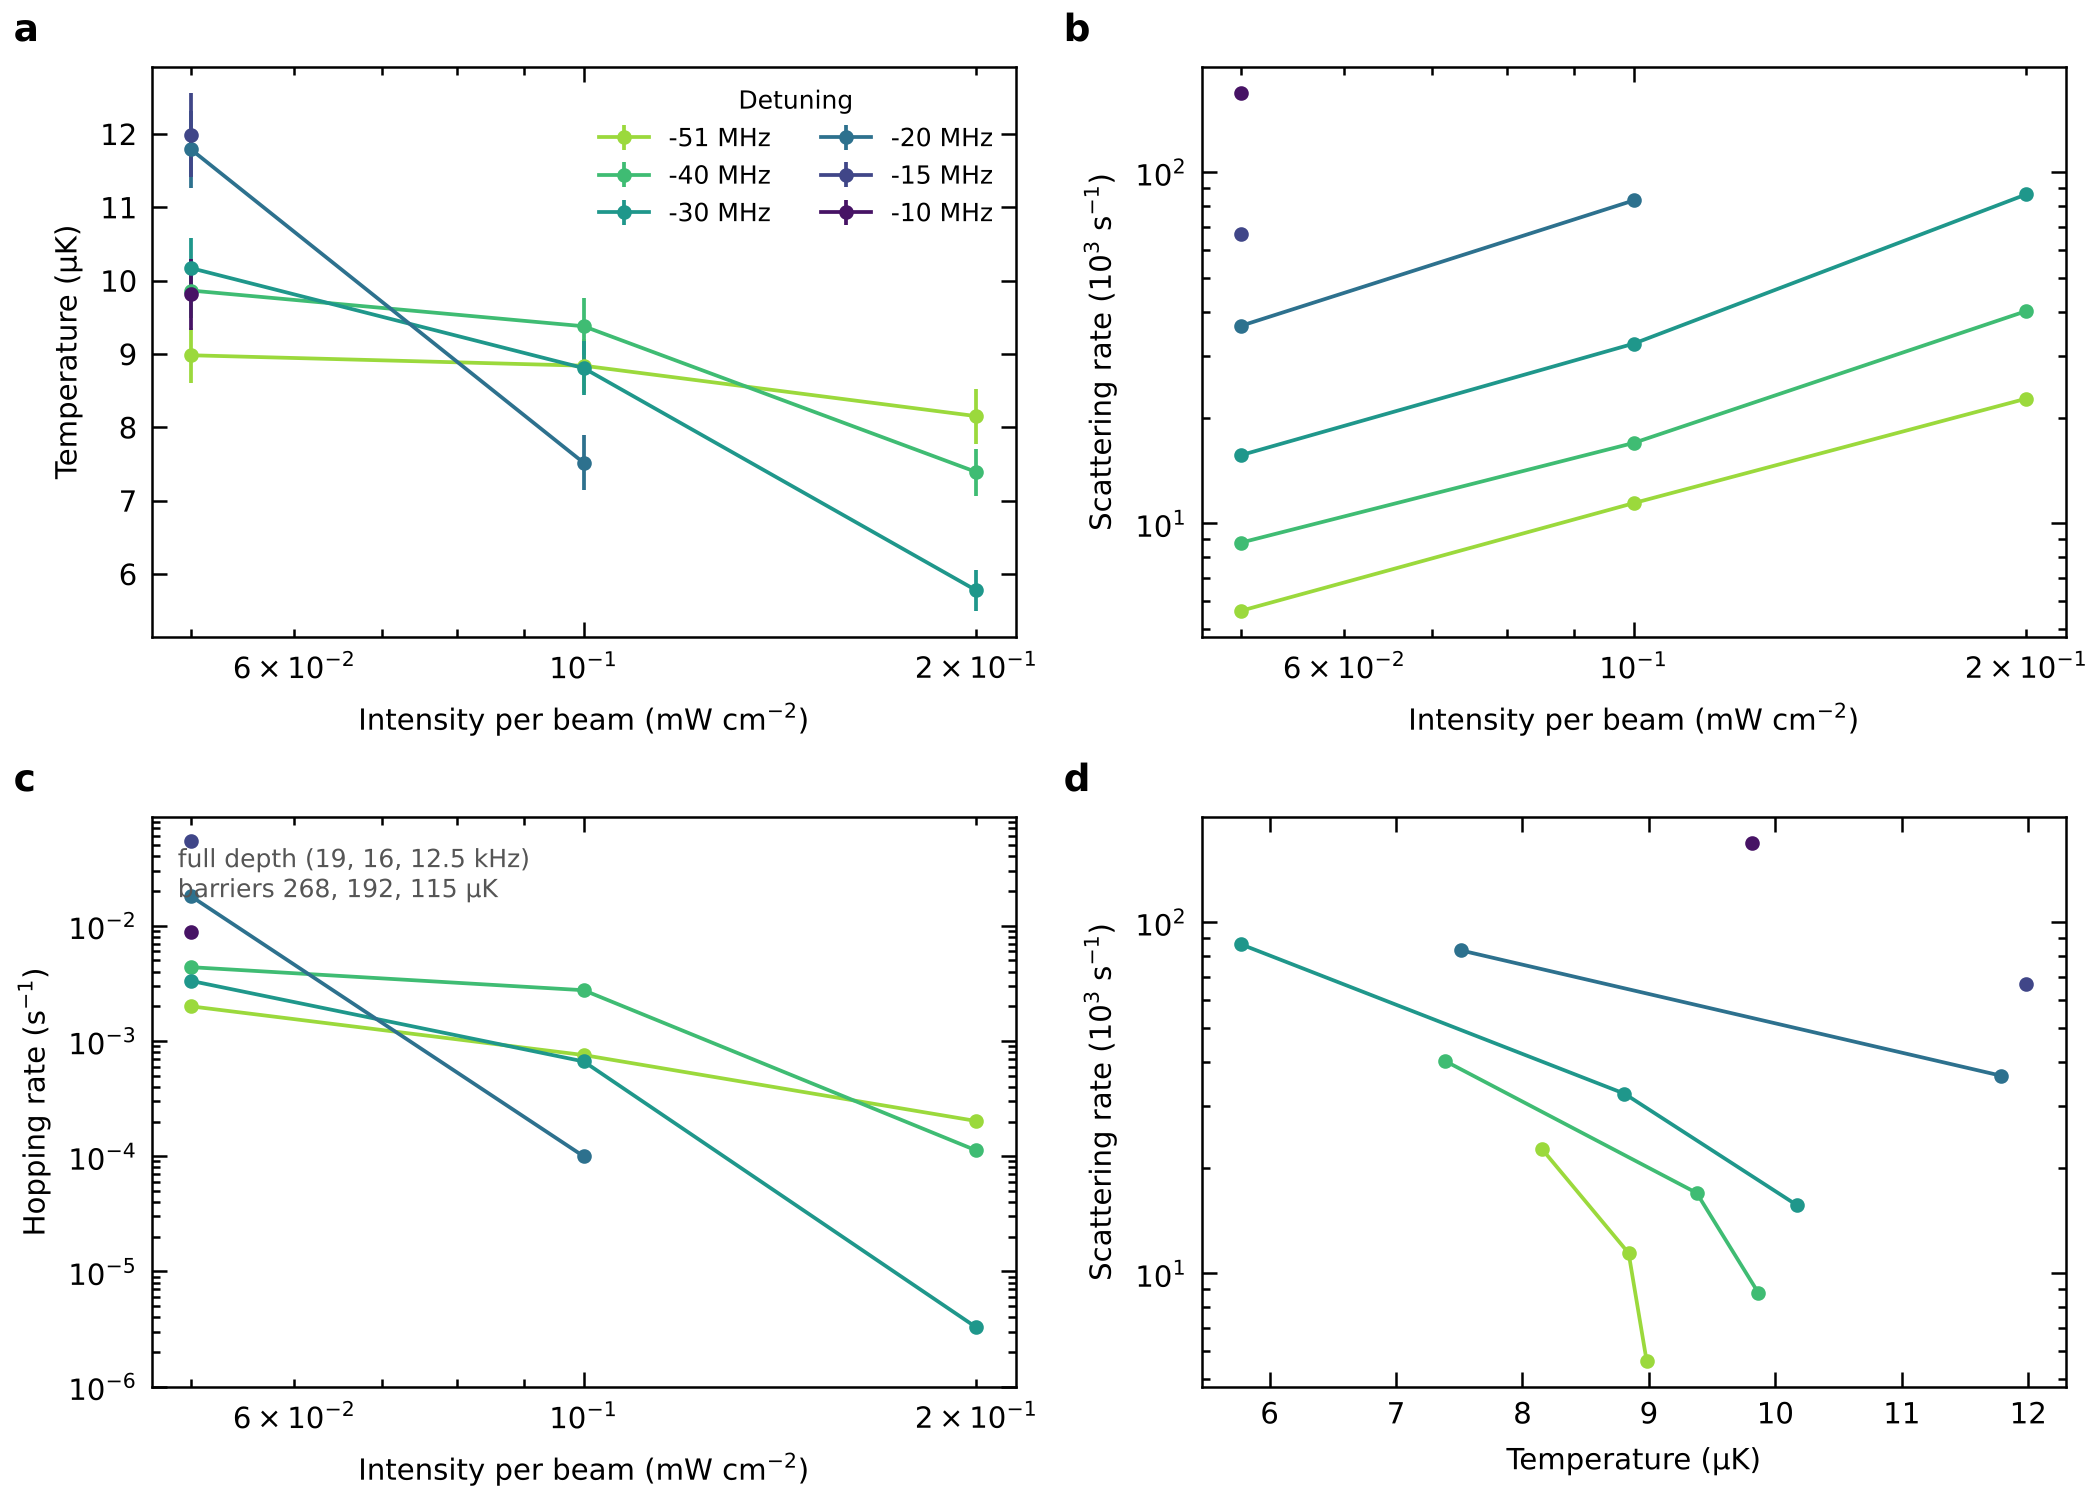
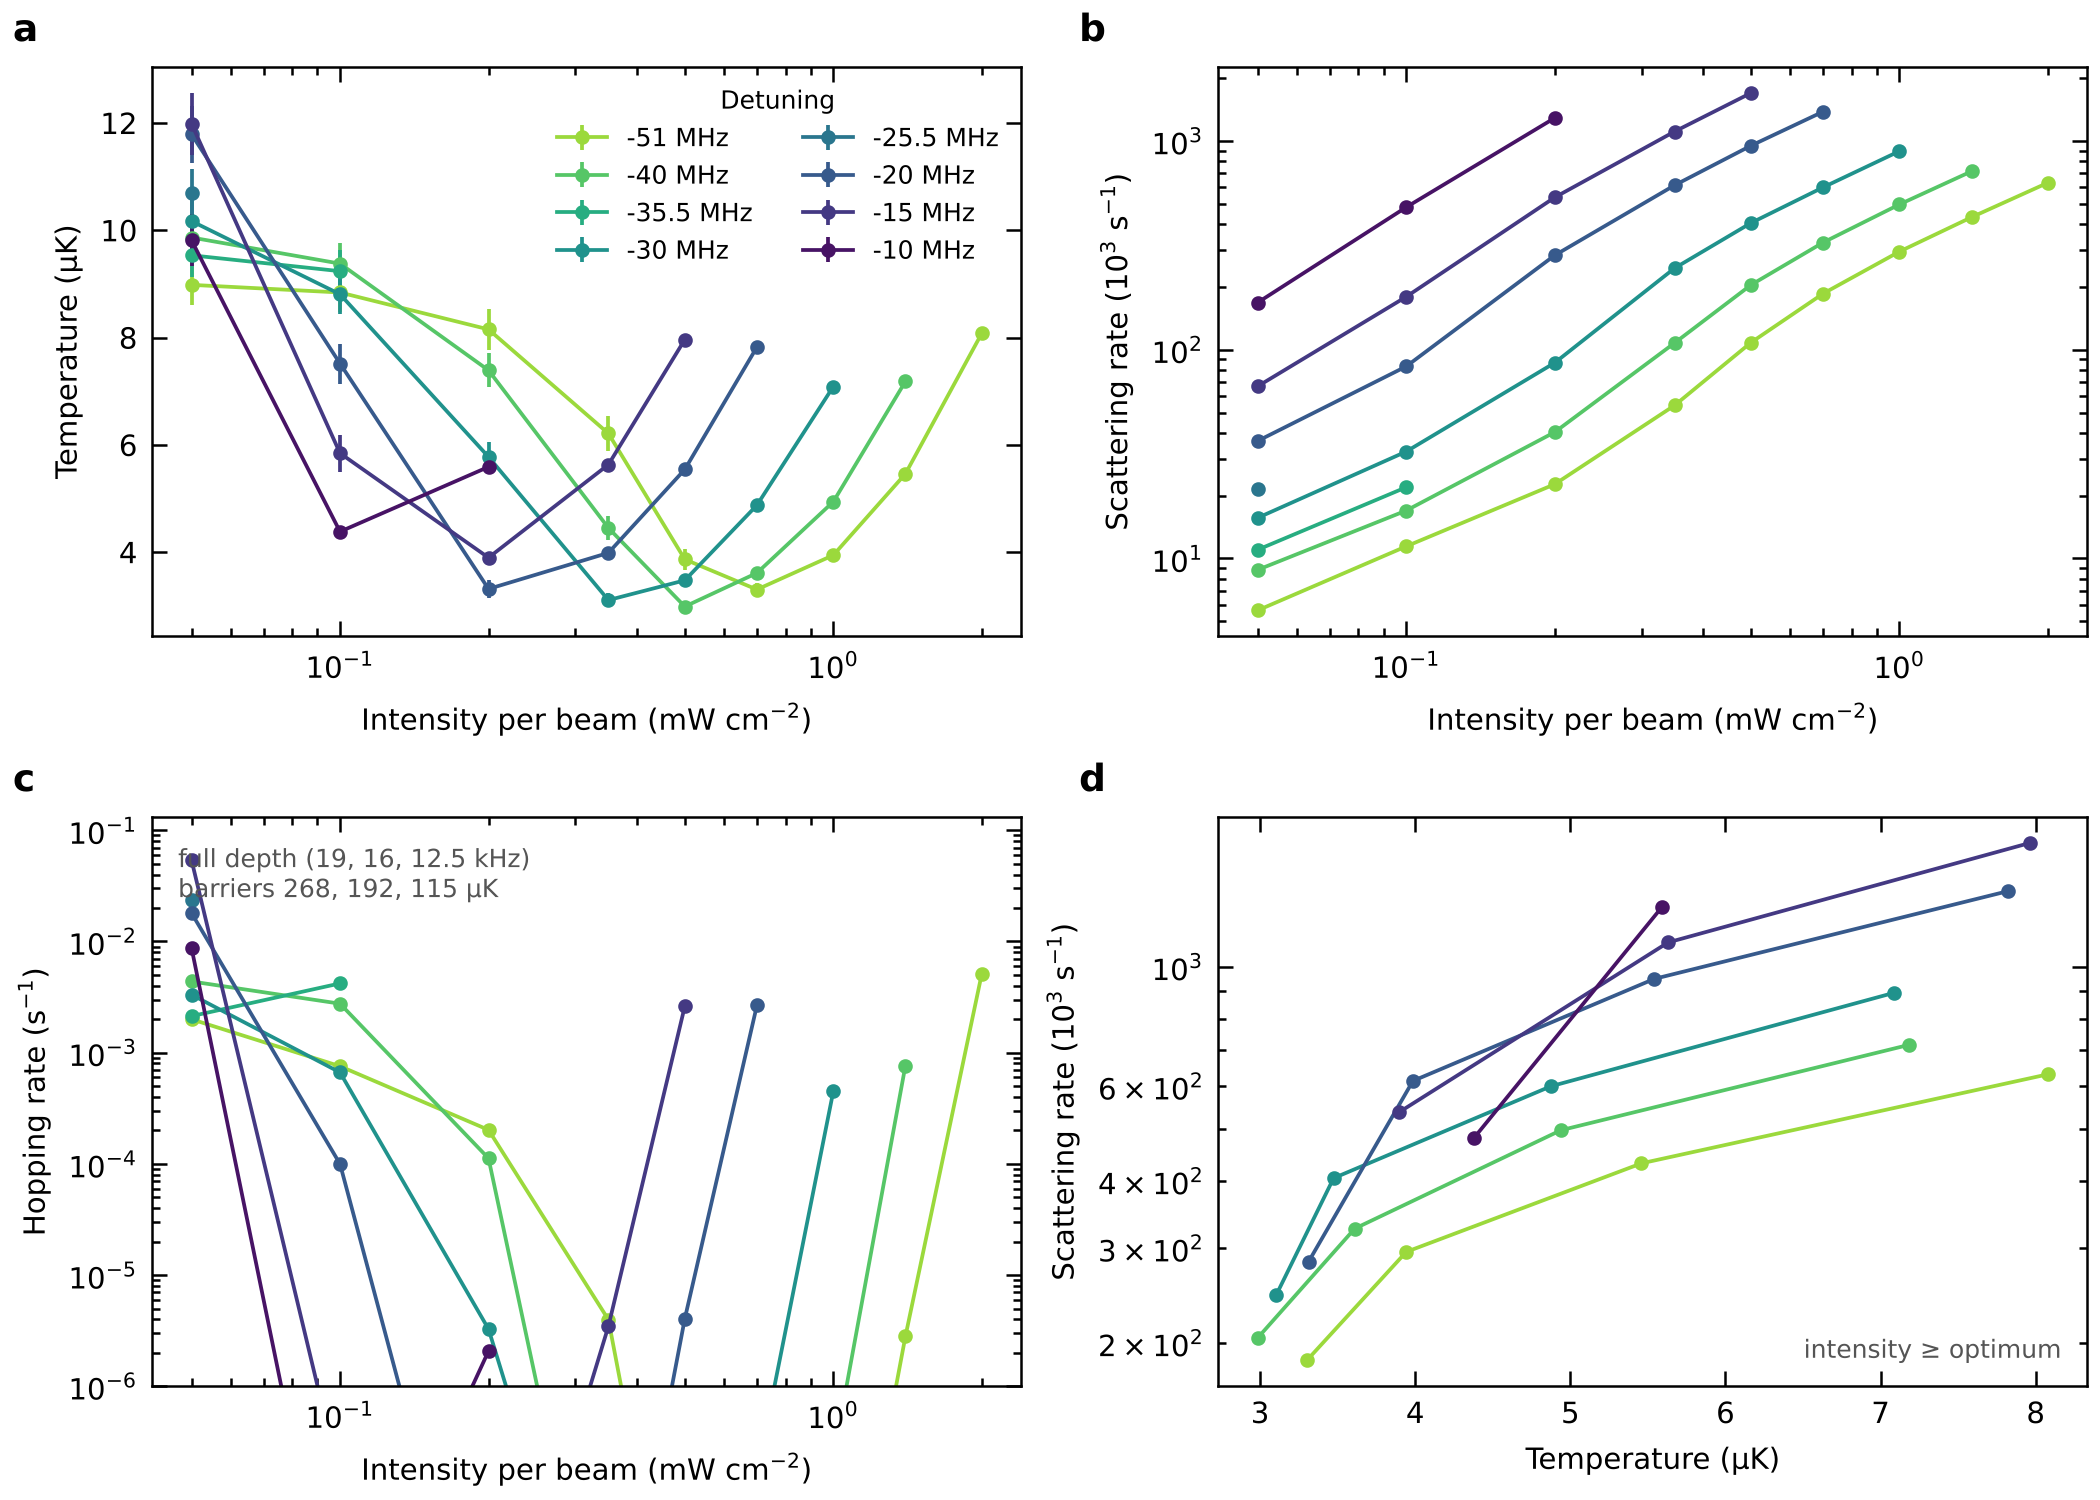
Map the lab AOM settings to detunings; add a partial-depth scan
Lab: lock on the F'=4/5 crossover (-125.5 MHz), single-pass AOM +75 (old)
to +105 MHz -> -50.5 ... -20.5 MHz; +100 (current) = -25.5 MHz. The scan adds
-35.5 and -25.5 MHz columns and a depth scan (0.1, 0.25, 0.5 of full depth).

Zero-field results so far (full depth): T_min 3.0-3.3 uK from -51 to -20 MHz
at I_opt = 0.7, 0.5, 0.35, 0.2 mW/cm^2 (-51, -40, -30, -20 MHz); scattering at
the optimum 1.9e5 -> 2.8e5 s^-1. Window: survival hold default 1 s (log).

Claude-Session: https://claude.ai/code/session_01Tq2BHBDkQC5QHh46bwt5JD

diff --git a/scripts/molasses_scan.py b/scripts/molasses_scan.py
@@ -1,6 +1,7 @@
 """Molasses Monte Carlo scans (lattice_sim.molasses).
 
     python scripts/molasses_scan.py intensity   # T, scattering, tau_E vs intensity, several detunings, full depth
+    python scripts/molasses_scan.py depth       # T and hopping at 0.1, 0.25, 0.5 of full depth
     python scripts/molasses_scan.py field       # T vs residual field along x, y, z
     python scripts/molasses_scan.py li          # Li (2009) conditions: 15 kHz, -45.5 MHz
     python scripts/molasses_scan.py salomon     # free space, orthogonal lin-perp-lin (Salomon 1990)
@@ -23,11 +24,17 @@ from lattice_sim.molasses import levels as L  # noqa: E402
 from lattice_sim.molasses import model as M  # noqa: E402
 
 OUT = REPO / "data" / "molasses"
-DETUNINGS = (-51.0, -40.0, -30.0, -20.0, -15.0, -10.0)
+# Lab: locked to the F=4 -> F'=4/5 crossover (-125.5 MHz from F'=5), single-pass AOM +75 (old), +90, +95,
+# +100 (current), +105 MHz -> -50.5, -35.5, -30.5, -25.5, -20.5 MHz (LAB_DETUNINGS).
+LAB_DETUNINGS = (-50.5, -35.5, -30.5, -25.5, -20.5)
+DETUNINGS = (-51.0, -40.0, -35.5, -30.0, -25.5, -20.0, -15.0, -10.0)
 INTENSITIES = (0.05, 0.1, 0.2, 0.35, 0.5, 0.7, 1.0, 1.4, 2.0, 3.0)
 FIELD_MG = (0.0, 50.0, 100.0, 200.0, 400.0, 800.0)
 FIELD_INTENSITIES = (0.2, 0.7, 2.0)
-FIELD_DETUNINGS = (-51.0, -30.0, -20.0, -10.0)
+FIELD_DETUNINGS = (-51.0, -25.5)
+DEPTH_DETUNINGS = (-51.0, -25.5)
+DEPTH_INTENSITIES = (0.35, 0.7, 1.4)
+DEPTH_SCALES = (0.1, 0.25, 0.5)
 N_ATOMS = 192
 
 
@@ -94,6 +101,13 @@ def main(argv):
                                          t_total_ms=burn(i) + 1.2, t_burn_ms=burn(i), seed=13))
         cfgs.sort(key=lambda c: c.intensity / abs(c.detuning))
         run_points("field", cfgs)
+    elif what == "depth":
+        cfgs = [M.Config(intensity=i, detuning=d, depth_scale=f, n_atoms=N_ATOMS, t_total_ms=burn(i) + 1.7,
+                         t_burn_ms=burn(i), seed=19)
+                for d in DEPTH_DETUNINGS for i in DEPTH_INTENSITIES for f in DEPTH_SCALES
+                if M.total_saturation(i, d) <= M.MAX_SATURATION]
+        cfgs.sort(key=lambda c: c.intensity / abs(c.detuning))
+        run_points("depth", cfgs)
     elif what == "li":
         cfgs = [M.Config(intensity=i, detuning=-45.5, trap_khz=(15.0, 15.0, 15.0), n_atoms=N_ATOMS,
                          t_total_ms=2.5, t_burn_ms=0.8, seed=17) for i in (0.1, 0.2, 0.35, 0.7, 1.4, 2.8)]

diff --git a/scripts/figure_molasses.py b/scripts/figure_molasses.py
@@ -6,8 +6,9 @@ figures/molasses_intensity.png (zero field)
      curve per detuning;
   b  photon scattering rate against intensity;
   c  hopping rate (sum over axes, Arrhenius with attempt rate 1/tau_E);
-  d  scattering rate against temperature (parametric in intensity): the
-     photon yield available at a given temperature.
+  d  scattering rate against temperature, parametric in intensity from the
+     temperature minimum upward (below it the same T comes with fewer photons):
+     the photon yield available at a given temperature.
 
 figures/molasses_field.png
   a, b  temperature against a residual field along x, y, z at -51 MHz and
@@ -56,10 +57,12 @@ def figure_intensity(tab, out):
         tm = tab.t[k][ok].mean(axis=1)
         te = np.sqrt((tab.t_err[k][ok] ** 2).sum(axis=1)) / 3
         kw = dict(color=cols[k], marker="o", ms=2.5, lw=0.9)
-        ax[0, 0].errorbar(ii, tm, te, label=f"{d:+.0f} MHz", capsize=0, **kw)
+        ax[0, 0].errorbar(ii, tm, te, label=f"{d:+g} MHz", capsize=0, **kw)
         ax[0, 1].plot(ii, tab.scatter[k][ok] * 1e-3, **kw)
         ax[1, 0].plot(ii, np.maximum(hop[k][ok], 1e-9), **kw)
-        ax[1, 1].plot(tm, tab.scatter[k][ok] * 1e-3, **kw)
+        j = int(np.argmin(tm))                 # operating branch: intensities at and above the T minimum
+        if len(tm) > j + 1:
+            ax[1, 1].plot(tm[j:], tab.scatter[k][ok][j:] * 1e-3, **kw)
     for a in (ax[0, 0], ax[0, 1], ax[1, 0]):
         a.set_xscale("log")
         a.set_xlabel("Intensity per beam (mW cm$^{-2}$)")
@@ -72,6 +75,8 @@ def figure_intensity(tab, out):
     ax[1, 0].set_ylim(bottom=1e-6)
     ax[1, 1].set_xlabel("Temperature (µK)")
     ax[1, 1].set_ylabel("Scattering rate (10$^3$ s$^{-1}$)")
+    ax[1, 1].text(0.97, 0.05, "intensity ≥ optimum", transform=ax[1, 1].transAxes, ha="right", fontsize=6,
+                  color="#555555")
     ax[0, 0].legend(title="Detuning", fontsize=6, title_fontsize=6, ncol=2)
     ax[1, 0].text(0.03, 0.95, "full depth (19, 16, 12.5 kHz)\nbarriers 268, 192, 115 µK", transform=ax[1, 0].transAxes,
                   va="top", fontsize=6, color="#555555")

diff --git a/scripts/molasses_explorer.py b/scripts/molasses_explorer.py
@@ -43,7 +43,7 @@ AXIS_COLOURS = ("#0072B2", "#D55E00", "#009E73")          # Okabe-Ito
 CURRENT_COLOUR = "#000000"
 LIVE_FIELDS_MG = (0.0, 50.0, 100.0, 200.0, 400.0)
 ATTEMPT_CHOICES = {"1/τ_E (model)": None, f"{T.LI_ATTEMPT_RATE_PER_S:g} s⁻¹ (Li 2009 fit)": T.LI_ATTEMPT_RATE_PER_S}
-DEFAULTS = dict(detuning=-51.0, intensity=0.7, pulse_ms=250.0, attempt="1/τ_E (model)", bx=0.0, by=0.0, bz=0.0, depth_scale=1.0,
+DEFAULTS = dict(detuning=-51.0, intensity=0.7, pulse_ms=1000.0, attempt="1/τ_E (model)", bx=0.0, by=0.0, bz=0.0, depth_scale=1.0,
                 live_ms=2.0, trap_khz=M.TRAP_FULL_KHZ)
 
 
